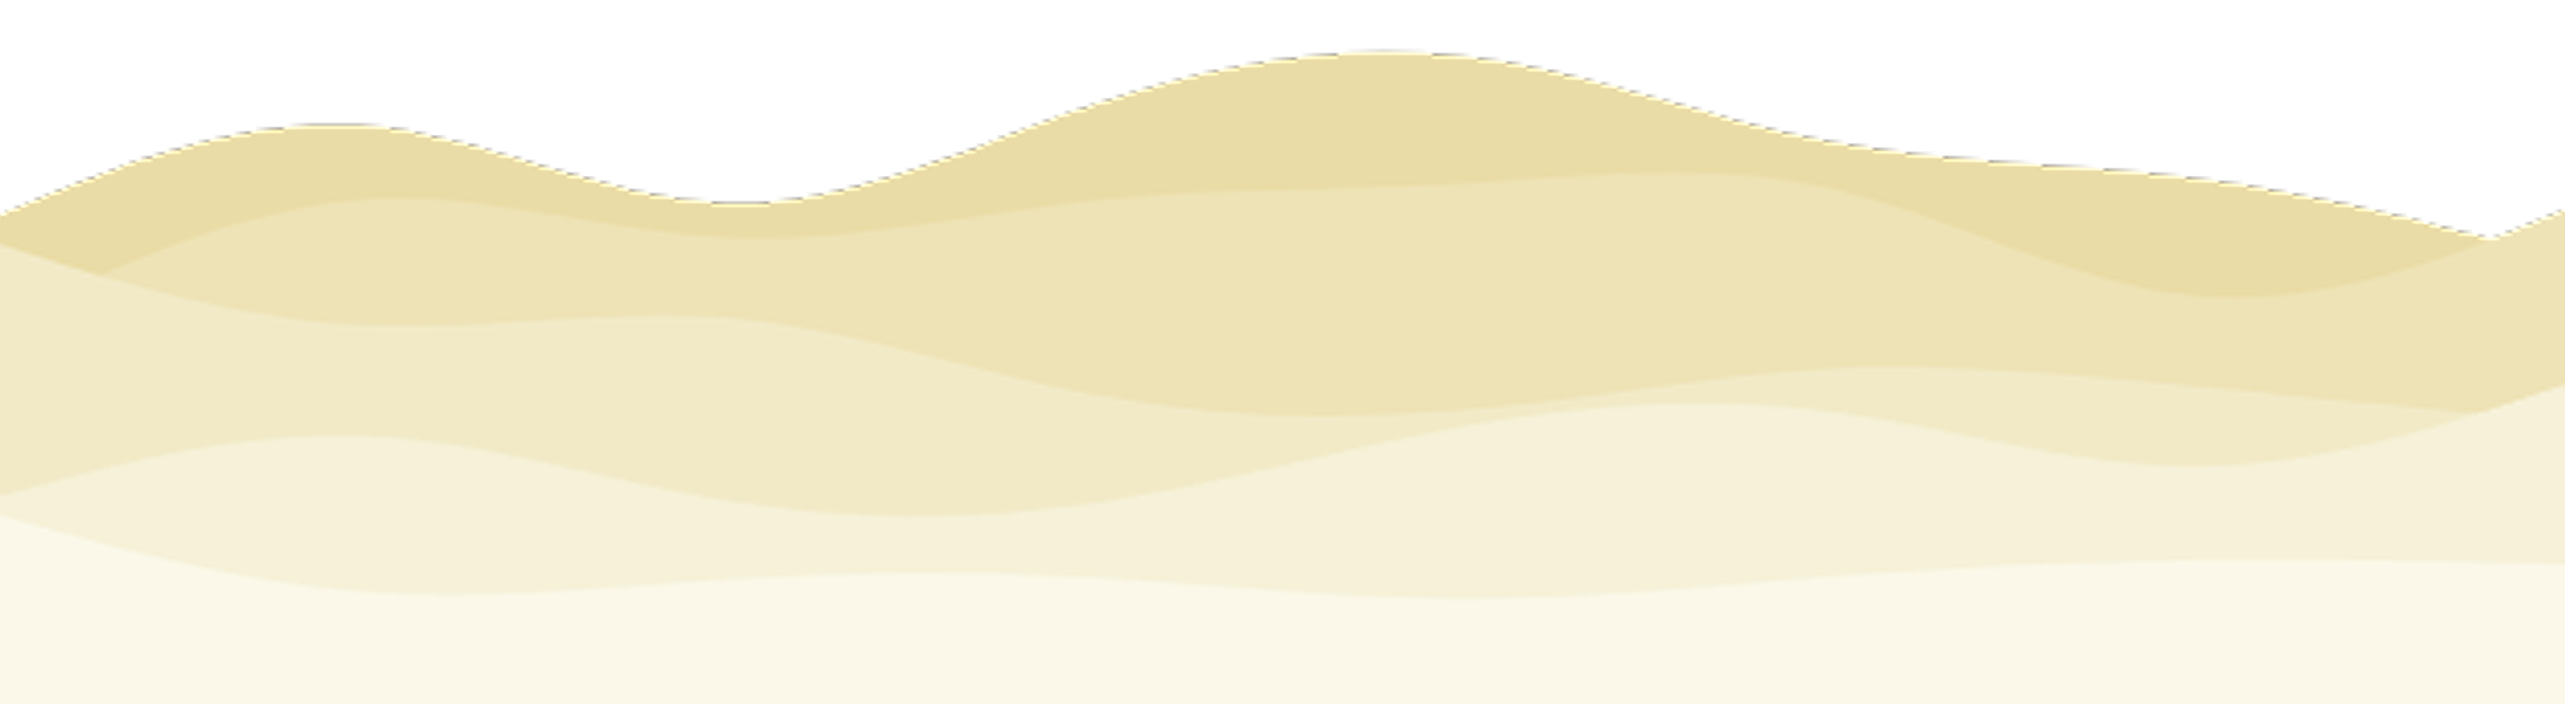
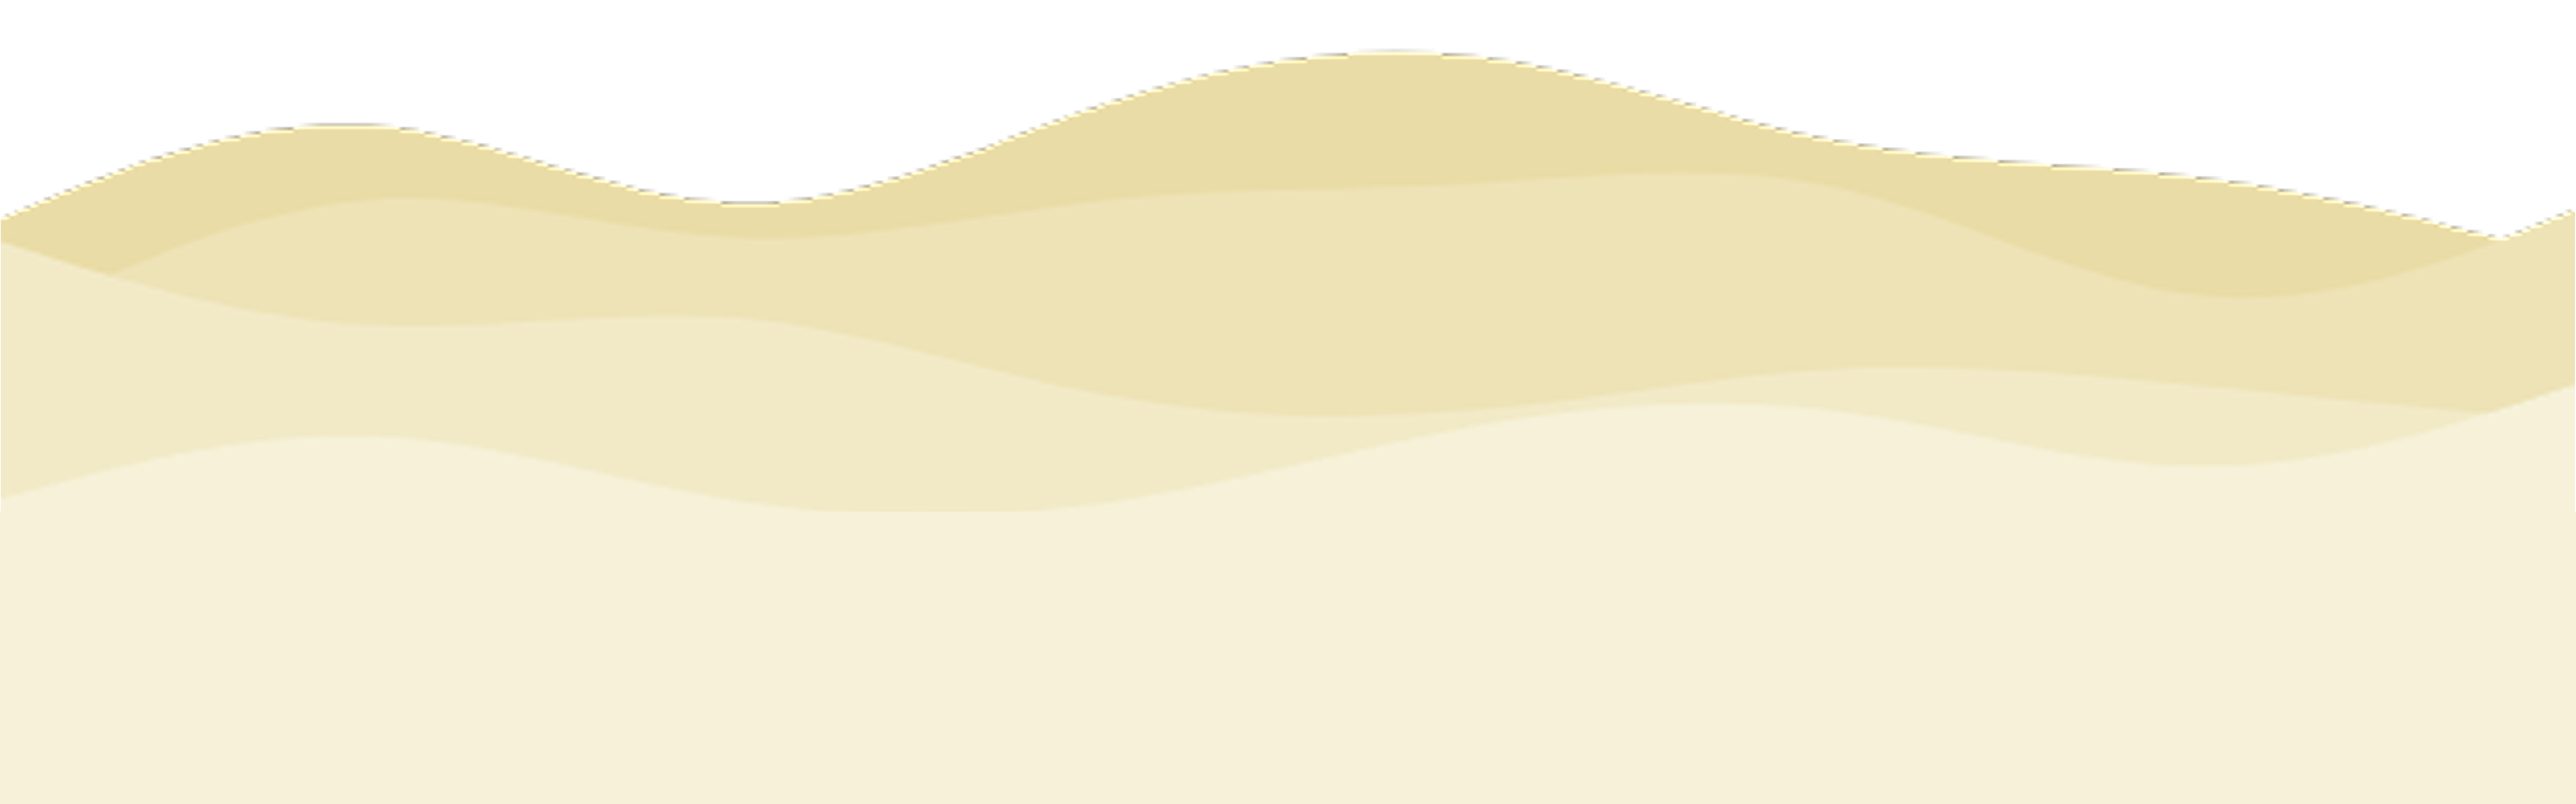
[Beranda] Update (10%)

Changed region(s): [[0.0, 0.062, 1.0, 0.4032], [0.4979, 0.4962, 0.7469, 0.5892], [0.9025, 0.4652, 1.0, 0.5892]]

diff --git a/beranda.html b/beranda.html
@@ -79,18 +79,20 @@
     <!-- Header -->
 
     <!-- Isi -->
-    <div class="bg-[var(--s2)] ">
-        <div class="h-[44vh] pt-[10vh] flex flex-col justify-center">
+    <div class="bg-[var(--s2)] overflow-x-hide">
+        <div class="max-md:h-[70vh] max-md:h-[65vh]  lg:h-[44vh] pt-[10vh] flex flex-col justify-center">
             <h1 class="c-f-judul text-8xl text-center">Arunika</h1>
-            <div class="w-[40vw] mx-[30vw]">
+            <div class="max-md:w-[70vw] max-md:mx-[15vw] max-lg:w-[50vw] max-lg:mx-[25vw] lg:w-[40vw] lg:mx-[30vw]">
                 <p class="c-f1 text-2xl text-center">“Setiap pakaian punya cerita. Pilihlah cerita yang ramah lingkungan"</p>
             </div>
         </div>
         <img src="public/bg-beranda.png" class="w-screen">
-        <div class="bg-[var(--s1)]">
-            <div class="flex">
-                <img src="public/beranda-1.png" class="rounded-full w-[30vw] h-[30vw]">
+        <div class="-mt-[10%] bg-[var(--t11)] relative overflow-hidden">
+            <div class="flex items-center">
+                <img src="public/beranda-1.png" class="my-3 w-[25vw] h-[30vw]">
+                <h1 class="ml-[3vw] max-md:text-base max-lg:text-2xl lg:text-3xl font-bold max-md:w-[55vw] max-lg:w-[40vw] lg:w-[30vw]">Ubah Pakaian Tak Terpakai Jadi Berarti</h1>
             </div>
+            <img src="public/beranda-d1.png" class="absolute top-[0] right-[-3vw] w-[14%] ">
         </div>
     </div>
     <!-- Isi -->

diff --git a/css/vi.css b/css/vi.css
@@ -38,6 +38,7 @@
     --t8: #BC360E;
     --t9: #2CA514;
     --t10: #FF4B2E;
+    --t11: #F6F1D8;
     --n5: #A6A6A6;
     --black: #000000;
     --white: #ffffff;
